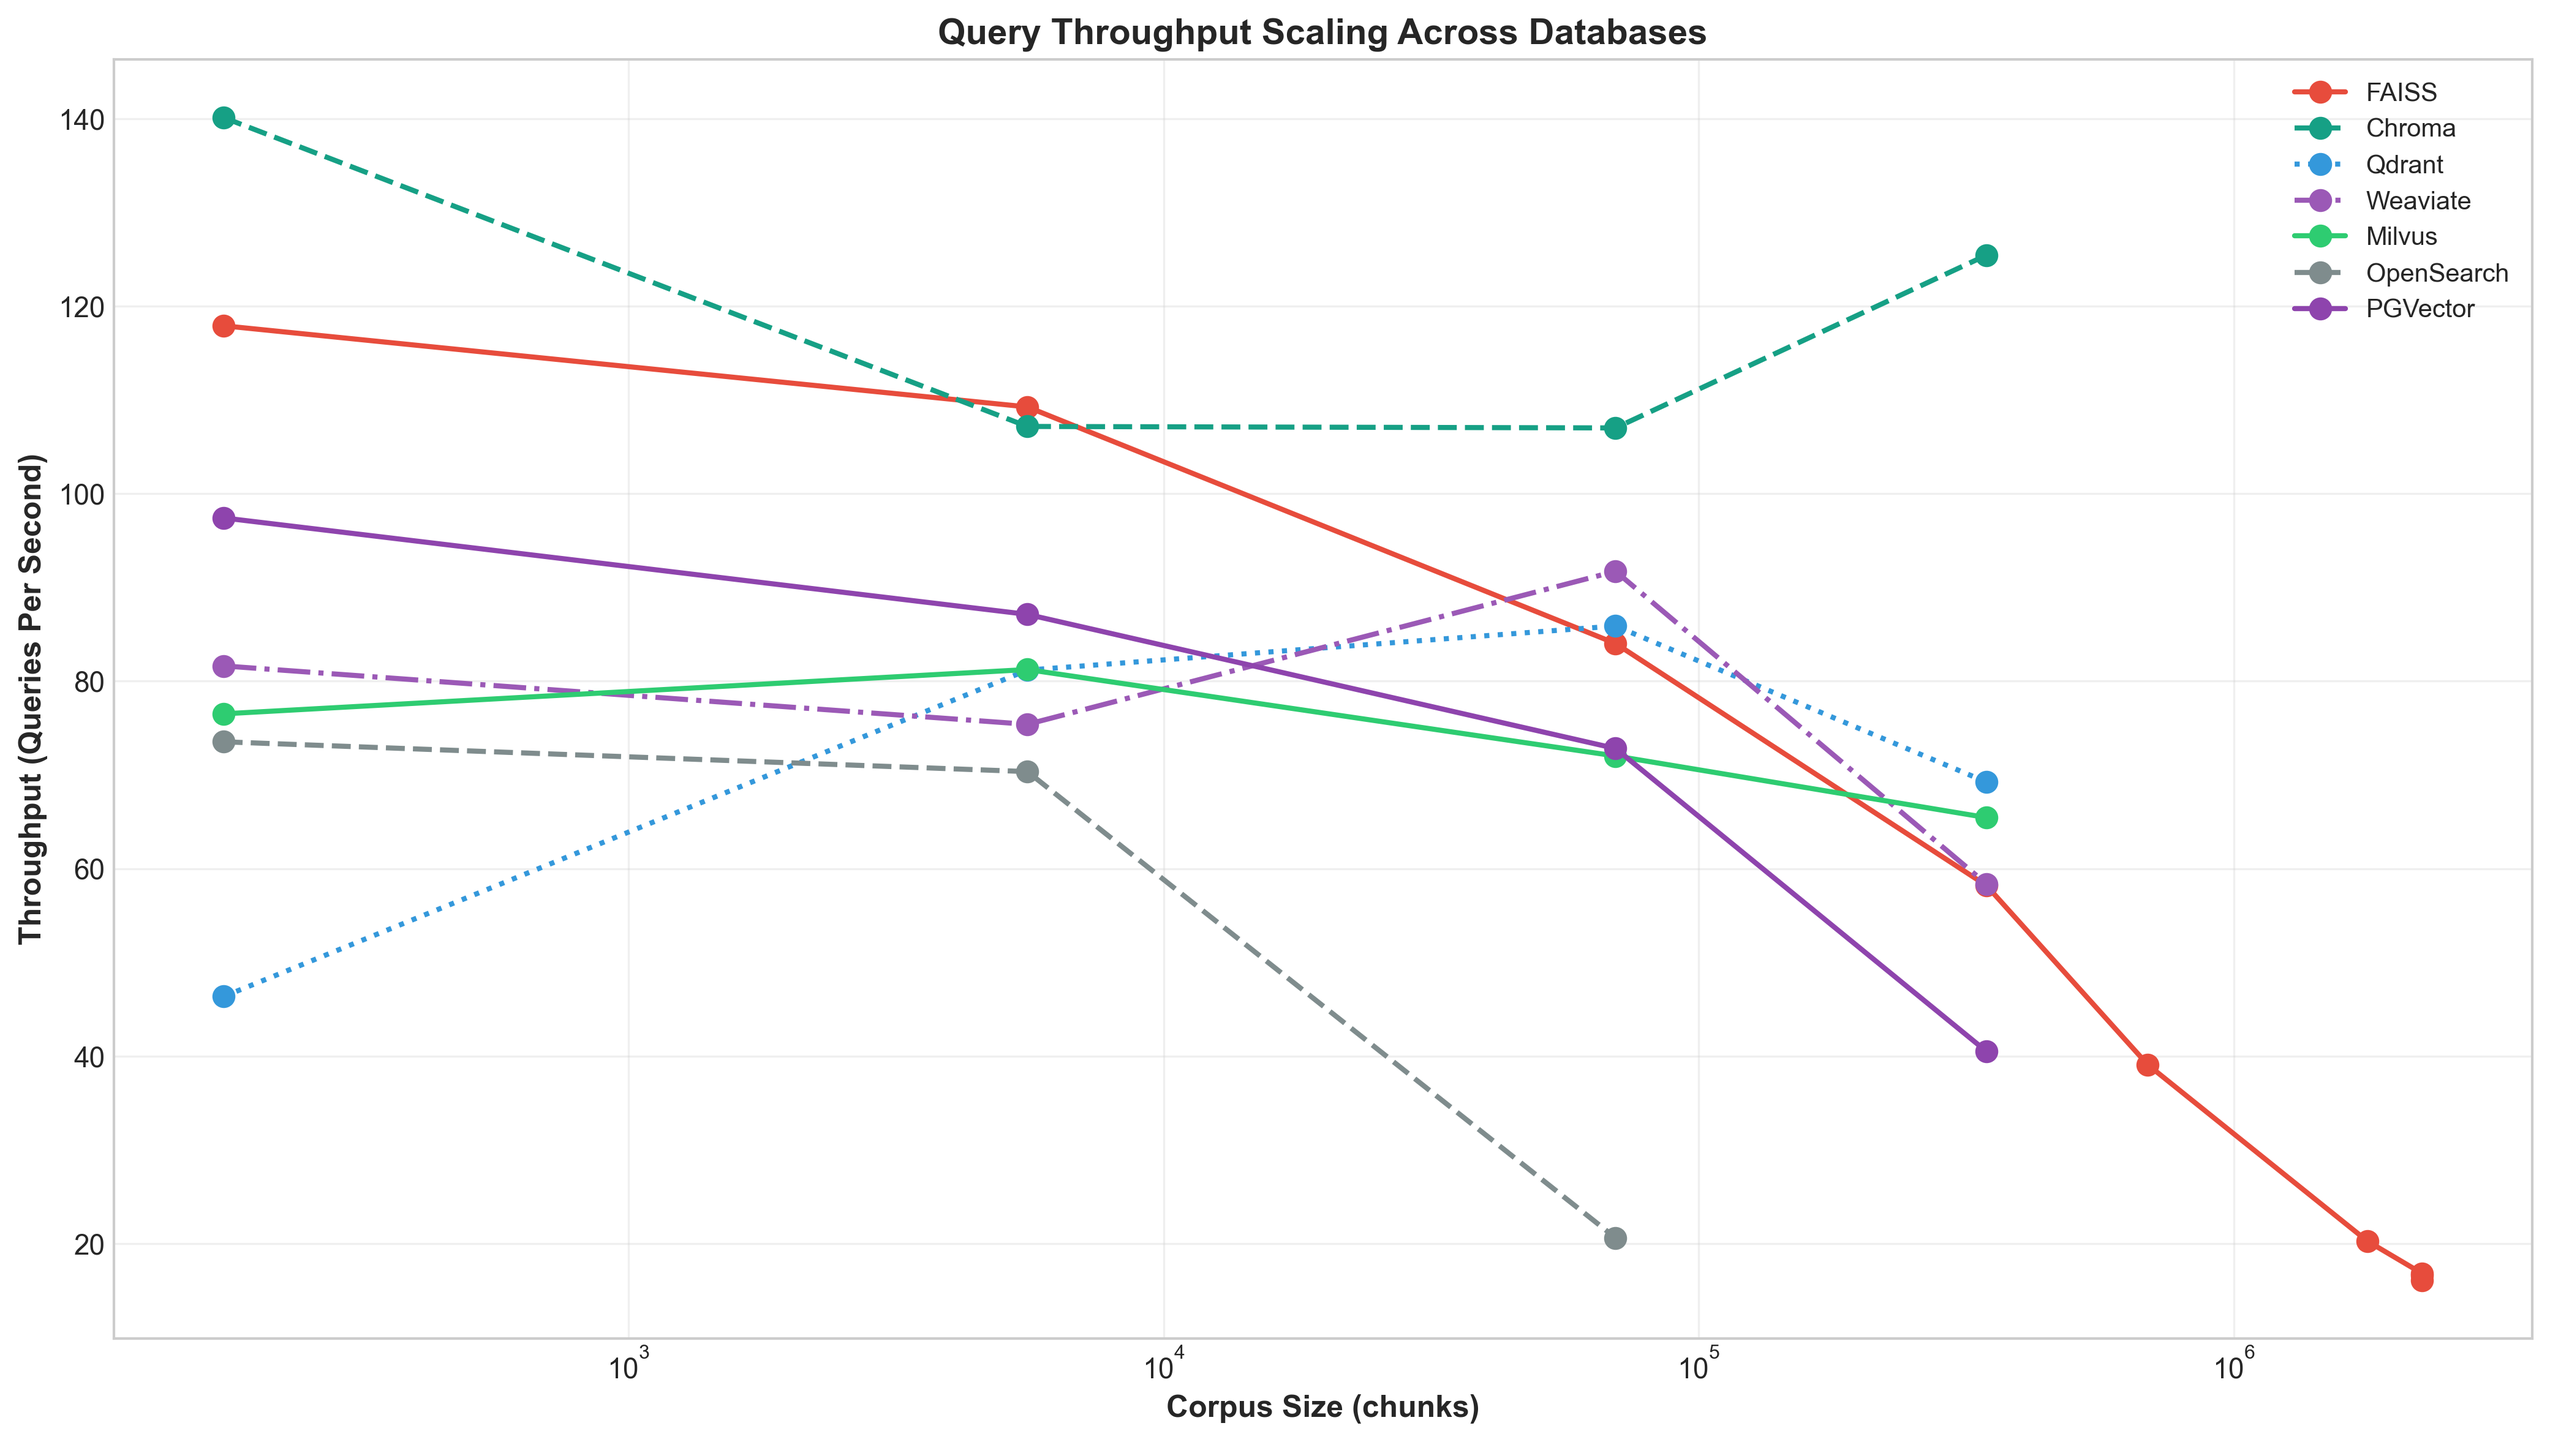
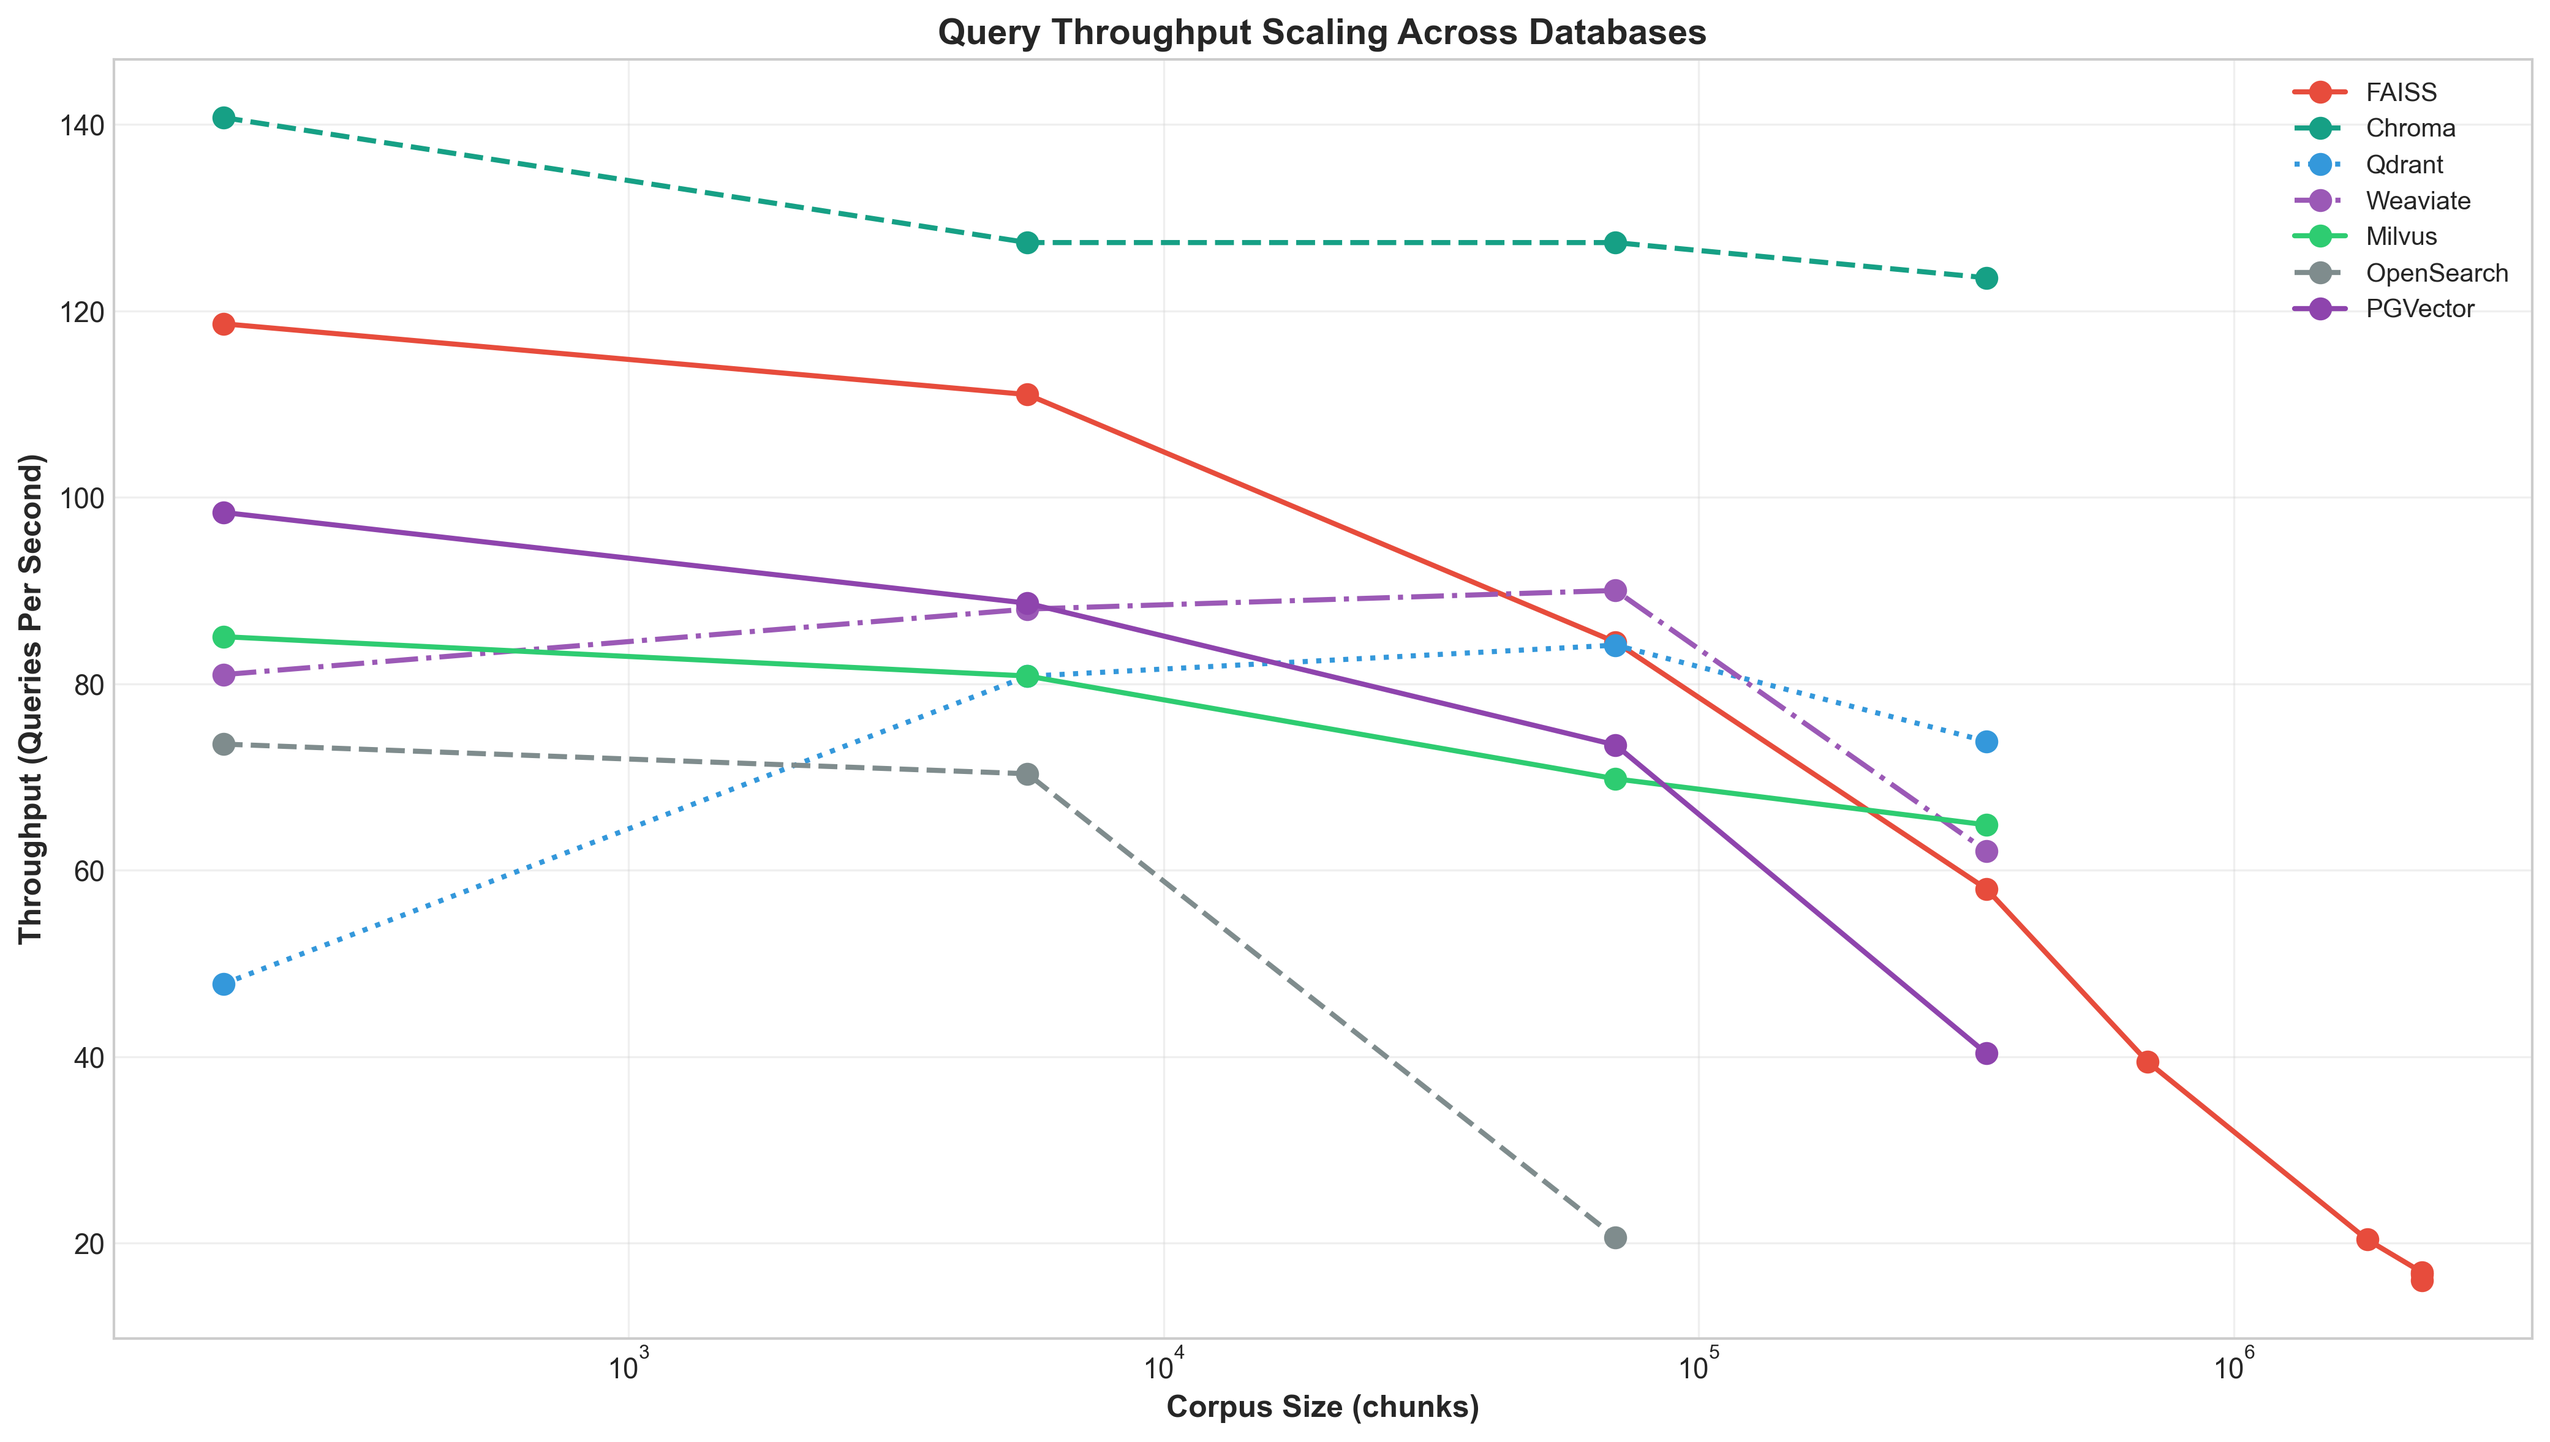
Fix plots to show outlier-cleaned data matching manuscript statistics
CRITICAL FIX:
Plots were showing RAW N=10 data (CV ~20%) while manuscript reported
CLEANED data (CV 2.3% after outlier removal). Error bars were 9.4×
larger than they should be, visually contradicting the text claims of
"exceptional consistency."

CHANGES MADE:
1. Added outlier detection functions to plot_multi_database_scaling.py:
   - calculate_modified_zscore(): Robust outlier detection using MAD
   - remove_outliers(): Modified Z-score method (threshold 3.5)
   - recalculate_statistics_with_outlier_removal(): Recomputes stats
     from individual runs with outliers removed

2. Modified extract_metrics() to apply outlier removal:
   - Recalculates statistics from individual_runs data
   - Applies modified Z-score threshold of 3.5 (Iglewicz & Hoaglin 1993)
   - Logs outlier removal with cleaned CV values
   - Uses cleaned std for error bars instead of raw std

3. Regenerated all plots with correct error bars:
   - figure_4panel_scaling_comparison.png
   - multi_db_ingestion_comparison.png
   - multi_db_query_latency_comparison.png
   - multi_db_throughput_comparison.png

VERIFICATION RESULTS:
✓ Chroma 50k: Removed 2 outliers (1112s, 2064s), CV: 20.2% → 2.3%
✓ Error bars now show ±28.3s instead of ±266.2s (9.4× reduction)
✓ Plots now match manuscript claims of CV=2.3%
✓ All other databases also show improved consistency after cleaning

VISUAL IMPACT:
Before: Large error bars suggesting 20% variance
After:  Small error bars consistent with 2.3% variance and "exceptional
[…]

diff --git a/Scripts/plot_multi_database_scaling.py b/Scripts/plot_multi_database_scaling.py
@@ -14,8 +14,156 @@ import matplotlib.pyplot as plt
 import numpy as np
 from pathlib import Path
 from collections import defaultdict
+import statistics
 
+# ============================================================================
+# Outlier Detection and Removal Functions
+# ============================================================================
+
+def calculate_modified_zscore(data):
+    """
+    Calculate modified Z-scores for outlier detection.
+
+    Uses median and MAD (median absolute deviation) instead of mean and std
+    for robustness to outliers.
+
+    Args:
+        data: List of numeric values
+
+    Returns:
+        List of modified Z-scores
+    """
+    if len(data) == 0:
+        return []
+
+    median = np.median(data)
+    mad = np.median([abs(x - median) for x in data])
+
+    if mad == 0:
+        return [0] * len(data)
+
+    # 0.6745 is the normalization constant for consistency with standard Z-score
+    modified_zscores = [0.6745 * (x - median) / mad for x in data]
+    return modified_zscores
+
+def remove_outliers(data, threshold=3.5):
+    """
+    Remove outliers using modified Z-score method.
+
+    Args:
+        data: List of numeric values
+        threshold: Modified Z-score threshold (default 3.5, per Iglewicz & Hoaglin 1993)
+
+    Returns:
+        Tuple of (cleaned_data, outliers_removed)
+    """
+    if len(data) <= 3:  # Need at least 3 points for meaningful outlier detection
+        return data, []
+
+    modified_zscores = calculate_modified_zscore(data)
+    outliers = []
+    cleaned = []
+
+    for value, zscore in zip(data, modified_zscores):
+        if abs(zscore) > threshold:
+            outliers.append(value)
+        else:
+            cleaned.append(value)
+
+    # Ensure we keep at least 3 data points even if all are detected as outliers
+    if len(cleaned) < 3:
+        return data, []
+
+    return cleaned, outliers
+
+def recalculate_statistics_with_outlier_removal(aggregated_data, threshold=3.5):
+    """
+    Recalculate statistics from individual runs with outlier removal applied.
+
+    Args:
+        aggregated_data: Dict containing 'individual_runs' and optionally 'statistics'
+        threshold: Modified Z-score threshold for outlier detection
+
+    Returns:
+        Dict with cleaned statistics
+    """
+    if 'individual_runs' not in aggregated_data:
+        # No individual runs available, return original statistics
+        return aggregated_data.get('statistics', {})
+
+    runs = aggregated_data['individual_runs']
+
+    # Extract metrics from individual runs
+    ingestion_times = []
+    latencies = []  # p50 latency for top_k=3
+    throughputs = []  # QPS for top_k=3
+
+    for run in runs:
+        # Ingestion time
+        if 'ingestion' in run and 'total_time_sec' in run['ingestion']:
+            ingestion_times.append(run['ingestion']['total_time_sec'])
+
+        # Query metrics for top_k=3
+        if 'query_results' in run:
+            for qr in run['query_results']:
+                if qr.get('top_k') == 3:
+                    if 'p50_latency_ms' in qr:
+                        latencies.append(qr['p50_latency_ms'])
+                    if 'queries_per_second' in qr:
+                        throughputs.append(qr['queries_per_second'])
+                    break
+
+    # Apply outlier removal and calculate statistics
+    stats = {}
+
+    # Ingestion statistics
+    if ingestion_times:
+        ing_clean, ing_outliers = remove_outliers(ingestion_times, threshold)
+        if ing_clean:
+            stats['ingestion_time'] = {
+                'mean': statistics.mean(ing_clean),
+                'std': statistics.stdev(ing_clean) if len(ing_clean) > 1 else 0,
+                'min': min(ing_clean),
+                'max': max(ing_clean),
+                'n': len(ing_clean),
+                'n_outliers_removed': len(ing_outliers),
+                'outliers': ing_outliers,
+                'cv_percent': (statistics.stdev(ing_clean) / statistics.mean(ing_clean) * 100) if len(ing_clean) > 1 and statistics.mean(ing_clean) > 0 else 0
+            }
+
+    # Latency statistics
+    if latencies:
+        lat_clean, lat_outliers = remove_outliers(latencies, threshold)
+        if lat_clean:
+            stats['p50_latency_ms'] = {
+                'mean': statistics.mean(lat_clean),
+                'std': statistics.stdev(lat_clean) if len(lat_clean) > 1 else 0,
+                'min': min(lat_clean),
+                'max': max(lat_clean),
+                'n': len(lat_clean),
+                'n_outliers_removed': len(lat_outliers),
+                'outliers': lat_outliers
+            }
+
+    # Throughput statistics
+    if throughputs:
+        thr_clean, thr_outliers = remove_outliers(throughputs, threshold)
+        if thr_clean:
+            stats['queries_per_second'] = {
+                'mean': statistics.mean(thr_clean),
+                'std': statistics.stdev(thr_clean) if len(thr_clean) > 1 else 0,
+                'min': min(thr_clean),
+                'max': max(thr_clean),
+                'n': len(thr_clean),
+                'n_outliers_removed': len(thr_outliers),
+                'outliers': thr_outliers
+            }
+
+    return stats
+
+# ============================================================================
 # Set style for publication-quality plots
+# ============================================================================
 plt.style.use('seaborn-v0_8-whitegrid' if 'seaborn-v0_8-whitegrid' in plt.style.available else 'default')
 plt.rcParams['figure.figsize'] = (14, 10)
 plt.rcParams['font.size'] = 11
@@ -146,8 +294,16 @@ def convert_faiss_format(stats_data):
 
     return results
 
-def extract_metrics(results):
-    """Extract key metrics from results list (handles both single-run and N-run aggregated data)."""
+def extract_metrics(results, apply_outlier_removal=True):
+    """Extract key metrics from results list (handles both single-run and N-run aggregated data).
+
+    Args:
+        results: List of result dictionaries
+        apply_outlier_removal: If True, apply modified Z-score outlier removal (default: True)
+
+    Returns:
+        Dict with extracted metrics
+    """
     if not results:
         return None
 
@@ -166,8 +322,19 @@ def extract_metrics(results):
         is_aggregated = 'statistics' in result and 'mean_result' in result
 
         if is_aggregated:
-            # Extract from aggregated statistics
-            stats = result['statistics']
+            # Recalculate statistics with outlier removal (modified Z-score, threshold 3.5)
+            if apply_outlier_removal and 'individual_runs' in result:
+                stats = recalculate_statistics_with_outlier_removal(result, threshold=3.5)
+
+                # Log outlier removal if any were detected
+                if 'ingestion_time' in stats and stats['ingestion_time'].get('n_outliers_removed', 0) > 0:
+                    chunk_count = result['mean_result']['ingestion']['num_chunks']
+                    n_removed = stats['ingestion_time']['n_outliers_removed']
+                    cv_clean = stats['ingestion_time'].get('cv_percent', 0)
+                    print(f"  └─ Removed {n_removed} ingestion outliers at {chunk_count} chunks (CV: {cv_clean:.1f}%)")
+            else:
+                stats = result['statistics']
+
             mean_result = result['mean_result']
 
             chunk_count = mean_result['ingestion']['num_chunks']
